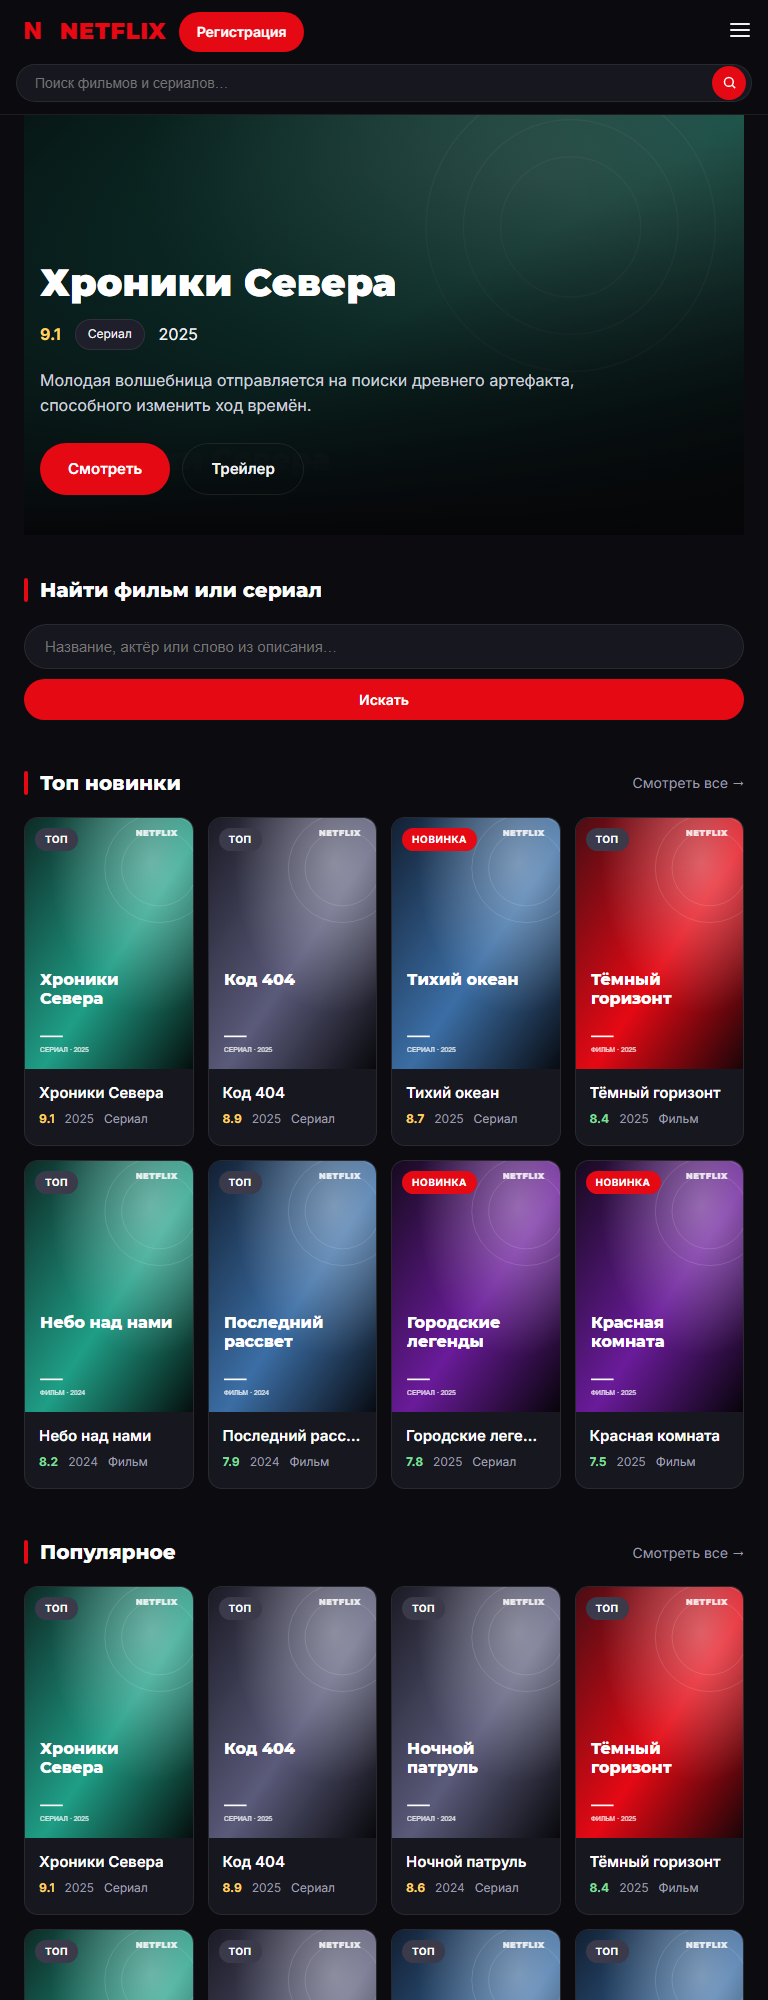
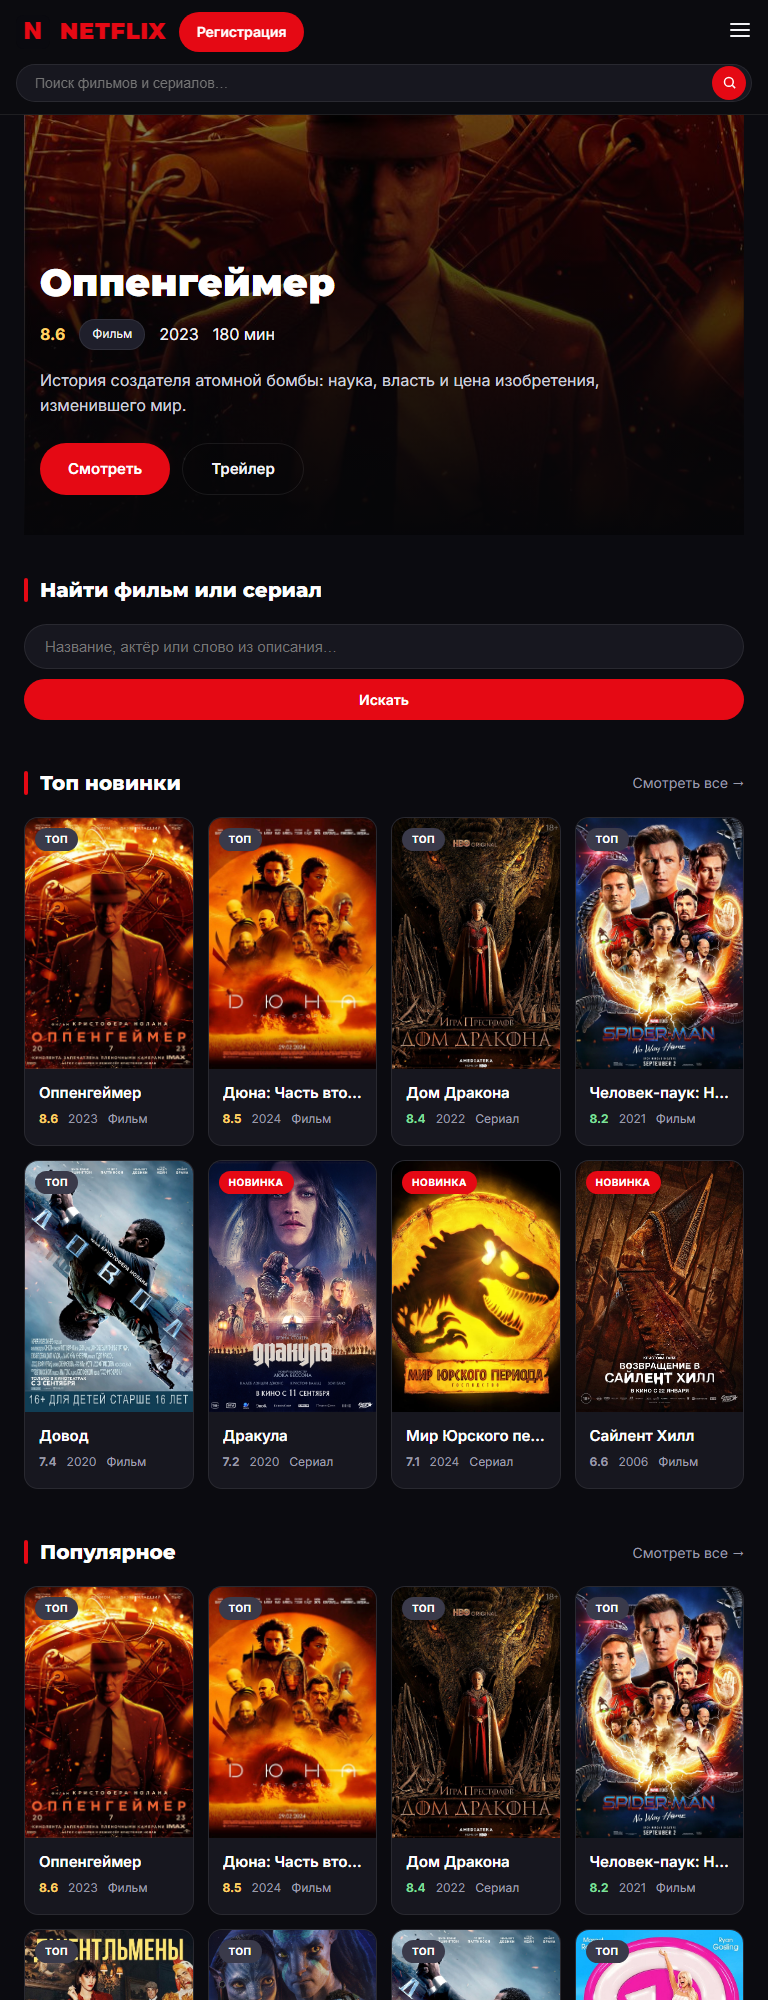
Каталог переведён на реальные постеры: новые названия, описания и сезоны; обновлены макеты и скриншоты

diff --git a/design/mockup.html b/design/mockup.html
@@ -1,4 +1,4 @@
-<!DOCTYPE html>
+<!DOCTYPE html>
 <!--
   design/mockup.html — дизайн-макеты главной и типовых страниц.
 
@@ -190,9 +190,9 @@
 
             <div class="m-hero">
                 <div class="m-hero-in">
-                    <h3>Хроники Севера</h3>
-                    <div class="m-meta"><span class="m-rating">9.1</span><span class="m-chip">Сериал</span><span>2025</span><span>2 сезона</span></div>
-                    <p>Молодая волшебница отправляется на поиски древнего артефакта, способного изменить ход времён.</p>
+                    <h3>Дом Дракона</h3>
+                    <div class="m-meta"><span class="m-rating">8.4</span><span class="m-chip">Сериал</span><span>2022</span><span>2 сезона</span></div>
+                    <p>За двести лет до «Игры престолов» дом Таргариенов борется за трон — и раскалывается изнутри.</p>
                     <div class="m-actions"><span class="m-btn primary">Смотреть</span><span class="m-btn ghost">Трейлер</span></div>
                 </div>
             </div>
@@ -208,24 +208,24 @@
             <div class="m-section">
                 <div class="m-sec-head"><h4>Топ новинки</h4><span>Смотреть все →</span></div>
                 <div class="m-row">
-                    <div class="m-card"><div class="m-poster p1"><span class="mark">Новинка</span></div><div class="m-card-body"><b>Тёмный горизонт</b><span>8.4 · 2025</span></div></div>
-                    <div class="m-card"><div class="m-poster p2"><span class="mark">Новинка</span></div><div class="m-card-body"><b>Небо над нами</b><span>8.2 · 2024</span></div></div>
-                    <div class="m-card"><div class="m-poster p3"><span class="mark">Новинка</span></div><div class="m-card-body"><b>Хроники Севера</b><span>9.1 · 2025</span></div></div>
-                    <div class="m-card"><div class="m-poster p4"><span class="mark">Новинка</span></div><div class="m-card-body"><b>Код 404</b><span>8.9 · 2025</span></div></div>
-                    <div class="m-card"><div class="m-poster p5"><span class="mark">Новинка</span></div><div class="m-card-body"><b>Красная комната</b><span>7.5 · 2025</span></div></div>
-                    <div class="m-card"><div class="m-poster p6"><span class="mark">Новинка</span></div><div class="m-card-body"><b>Тихий океан</b><span>8.7 · 2025</span></div></div>
+                    <div class="m-card"><div class="m-poster p1"><span class="mark">Новинка</span></div><div class="m-card-body"><b>Довод</b><span>8.4 · 2025</span></div></div>
+                    <div class="m-card"><div class="m-poster p2"><span class="mark">Новинка</span></div><div class="m-card-body"><b>Дюна: Часть вторая</b><span>8.2 · 2024</span></div></div>
+                    <div class="m-card"><div class="m-poster p3"><span class="mark">Новинка</span></div><div class="m-card-body"><b>Дом Дракона</b><span>9.1 · 2025</span></div></div>
+                    <div class="m-card"><div class="m-poster p4"><span class="mark">Новинка</span></div><div class="m-card-body"><b>Человек-паук</b><span>8.9 · 2025</span></div></div>
+                    <div class="m-card"><div class="m-poster p5"><span class="mark">Новинка</span></div><div class="m-card-body"><b>Сайлент Хилл</b><span>7.5 · 2025</span></div></div>
+                    <div class="m-card"><div class="m-poster p6"><span class="mark">Новинка</span></div><div class="m-card-body"><b>Аватар: Путь воды</b><span>8.7 · 2025</span></div></div>
                 </div>
             </div>
 
             <div class="m-section">
                 <div class="m-sec-head"><h4>Популярное</h4><span>Смотреть все →</span></div>
                 <div class="m-row">
-                    <div class="m-card"><div class="m-poster p3"></div><div class="m-card-body"><b>Хроники Севера</b><span>9.1 · Сериал</span></div></div>
-                    <div class="m-card"><div class="m-poster p4"></div><div class="m-card-body"><b>Код 404</b><span>8.9 · Сериал</span></div></div>
-                    <div class="m-card"><div class="m-poster p6"></div><div class="m-card-body"><b>Тихий океан</b><span>8.7 · Сериал</span></div></div>
-                    <div class="m-card"><div class="m-poster p2"></div><div class="m-card-body"><b>Ночной патруль</b><span>8.6 · Сериал</span></div></div>
-                    <div class="m-card"><div class="m-poster p1"></div><div class="m-card-body"><b>Тёмный горизонт</b><span>8.4 · Фильм</span></div></div>
-                    <div class="m-card"><div class="m-poster p5"></div><div class="m-card-body"><b>Небо над нами</b><span>8.2 · Фильм</span></div></div>
+                    <div class="m-card"><div class="m-poster p3"></div><div class="m-card-body"><b>Дом Дракона</b><span>9.1 · Сериал</span></div></div>
+                    <div class="m-card"><div class="m-poster p4"></div><div class="m-card-body"><b>Человек-паук</b><span>8.9 · Сериал</span></div></div>
+                    <div class="m-card"><div class="m-poster p6"></div><div class="m-card-body"><b>Аватар: Путь воды</b><span>8.7 · Сериал</span></div></div>
+                    <div class="m-card"><div class="m-poster p2"></div><div class="m-card-body"><b>Мора</b><span>8.6 · Сериал</span></div></div>
+                    <div class="m-card"><div class="m-poster p1"></div><div class="m-card-body"><b>Довод</b><span>8.4 · Фильм</span></div></div>
+                    <div class="m-card"><div class="m-poster p5"></div><div class="m-card-body"><b>Дюна: Часть вторая</b><span>8.2 · Фильм</span></div></div>
                 </div>
             </div>
 
@@ -244,12 +244,12 @@
             <div class="m-section">
                 <div class="m-sec-head"><h4>Рекомендуем вам</h4><span>по вашему избранному и истории</span></div>
                 <div class="m-row">
-                    <div class="m-card"><div class="m-poster p5"></div><div class="m-card-body"><b>Охота на тень</b><span>8.1 · Фильм</span></div></div>
-                    <div class="m-card"><div class="m-poster p2"></div><div class="m-card-body"><b>Городские легенды</b><span>7.8 · Сериал</span></div></div>
-                    <div class="m-card"><div class="m-poster p1"></div><div class="m-card-body"><b>Стальной кулак</b><span>7.7 · Фильм</span></div></div>
-                    <div class="m-card"><div class="m-poster p3"></div><div class="m-card-body"><b>Бар Улыбка</b><span>7.4 · Сериал</span></div></div>
-                    <div class="m-card"><div class="m-poster p6"></div><div class="m-card-body"><b>Последний рассвет</b><span>7.9 · Фильм</span></div></div>
-                    <div class="m-card"><div class="m-poster p4"></div><div class="m-card-body"><b>Аляска</b><span>8.0 · Фильм</span></div></div>
+                    <div class="m-card"><div class="m-poster p5"></div><div class="m-card-body"><b>Оппенгеймер</b><span>8.1 · Фильм</span></div></div>
+                    <div class="m-card"><div class="m-poster p2"></div><div class="m-card-body"><b>Дракула</b><span>7.8 · Сериал</span></div></div>
+                    <div class="m-card"><div class="m-poster p1"></div><div class="m-card-body"><b>Годзилла против Конга</b><span>7.7 · Фильм</span></div></div>
+                    <div class="m-card"><div class="m-poster p3"></div><div class="m-card-body"><b>Барби</b><span>7.4 · Сериал</span></div></div>
+                    <div class="m-card"><div class="m-poster p6"></div><div class="m-card-body"><b>Джентльмены</b><span>7.9 · Фильм</span></div></div>
+                    <div class="m-card"><div class="m-poster p4"></div><div class="m-card-body"><b>Мир Юрского периода</b><span>8.0 · Фильм</span></div></div>
                 </div>
             </div>
 
@@ -276,10 +276,10 @@
             <div class="m-title">
                 <div class="poster"></div>
                 <div>
-                    <div style="font-size:10px;color:#9a9aa8;margin-bottom:8px">Главная / Боевики / Тёмный горизонт</div>
-                    <h3>Тёмный горизонт</h3>
-                    <div class="m-meta"><span class="m-rating">8.4</span><span class="m-chip">Фильм</span><span>2025</span><span>128 мин</span><span class="m-chip">Боевики</span></div>
-                    <p class="desc">Бывший агент вынужден вернуться в игру, чтобы остановить международную сеть наёмников.</p>
+                    <div style="font-size:10px;color:#9a9aa8;margin-bottom:8px">Главная / Боевики / Довод</div>
+                    <h3>Довод</h3>
+                    <div class="m-meta"><span class="m-rating">7.4</span><span class="m-chip">Фильм</span><span>2020</span><span>150 мин</span><span class="m-chip">Триллеры</span></div>
+                    <p class="desc">Оперативник без имени осваивает инверсию времени, чтобы предотвратить войну будущего с настоящим.</p>
                     <div class="m-actions"><span class="m-btn primary">Смотреть трейлер</span><span class="m-btn ghost">В избранное</span><span class="m-btn ghost">Оформить подписку</span></div>
                     <div style="font-size:11px;color:#9a9aa8;margin-top:14px">Режиссёр</div>
                     <div class="m-people">
@@ -294,12 +294,12 @@
             <div class="m-section">
                 <div class="m-sec-head"><h4>Похожие фильмы</h4></div>
                 <div class="m-row">
-                    <div class="m-card"><div class="m-poster p2"></div><div class="m-card-body"><b>Стальной кулак</b><span>7.7</span></div></div>
-                    <div class="m-card"><div class="m-poster p4"></div><div class="m-card-body"><b>Охота на тень</b><span>8.1</span></div></div>
-                    <div class="m-card"><div class="m-poster p6"></div><div class="m-card-body"><b>Аляска</b><span>8.0</span></div></div>
-                    <div class="m-card"><div class="m-poster p5"></div><div class="m-card-body"><b>Небо над нами</b><span>8.2</span></div></div>
-                    <div class="m-card"><div class="m-poster p1"></div><div class="m-card-body"><b>Последний рассвет</b><span>7.9</span></div></div>
-                    <div class="m-card"><div class="m-poster p3"></div><div class="m-card-body"><b>Красная комната</b><span>7.5</span></div></div>
+                    <div class="m-card"><div class="m-poster p2"></div><div class="m-card-body"><b>Годзилла против Конга</b><span>7.7</span></div></div>
+                    <div class="m-card"><div class="m-poster p4"></div><div class="m-card-body"><b>Оппенгеймер</b><span>8.1</span></div></div>
+                    <div class="m-card"><div class="m-poster p6"></div><div class="m-card-body"><b>Мир Юрского периода</b><span>8.0</span></div></div>
+                    <div class="m-card"><div class="m-poster p5"></div><div class="m-card-body"><b>Дюна: Часть вторая</b><span>8.2</span></div></div>
+                    <div class="m-card"><div class="m-poster p1"></div><div class="m-card-body"><b>Джентльмены</b><span>7.9</span></div></div>
+                    <div class="m-card"><div class="m-poster p3"></div><div class="m-card-body"><b>Сайлент Хилл</b><span>7.5</span></div></div>
                 </div>
             </div>
 
@@ -328,10 +328,10 @@
             <div class="m-title">
                 <div class="poster" style="background:linear-gradient(160deg,#5b2a7a,#14141c)"></div>
                 <div>
-                    <div style="font-size:10px;color:#9a9aa8;margin-bottom:8px">Главная / Фэнтези / Хроники Севера</div>
-                    <h3>Хроники Севера</h3>
-                    <div class="m-meta"><span class="m-rating">9.1</span><span class="m-chip">Сериал</span><span>2025</span><span>2 сезона</span></div>
-                    <p class="desc">Молодая волшебница отправляется на поиски древнего артефакта, способного изменить ход времён.</p>
+                    <div style="font-size:10px;color:#9a9aa8;margin-bottom:8px">Главная / Фэнтези / Дом Дракона</div>
+                    <h3>Дом Дракона</h3>
+                    <div class="m-meta"><span class="m-rating">8.4</span><span class="m-chip">Сериал</span><span>2022</span><span>2 сезона</span></div>
+                    <p class="desc">За двести лет до «Игры престолов» дом Таргариенов борется за трон — и раскалывается изнутри.</p>
                     <div class="m-actions"><span class="m-btn primary">Смотреть трейлер</span><span class="m-btn ghost">В избранное</span></div>
                     <div class="m-people">
                         <div><i></i>Иван Петров</div><div><i></i>Анна Смирнова</div><div><i></i>Алексей Новиков</div>
@@ -346,20 +346,20 @@
                 <span class="m-tab">Сезон 2</span>
             </div>
             <div class="m-episodes">
-                <div class="m-ep"><span><b>S1E1</b> · Пророчество</span><span>52 мин</span></div>
-                <div class="m-ep"><span><b>S1E2</b> · Лес тысячи теней</span><span>48 мин</span></div>
-                <div class="m-ep"><span><b>S1E3</b> · Ледяной трон</span><span>50 мин</span></div>
+                <div class="m-ep"><span><b>S1E1</b> · Наследники дракона</span><span>52 мин</span></div>
+                <div class="m-ep"><span><b>S1E2</b> · Принц-изгой</span><span>48 мин</span></div>
+                <div class="m-ep"><span><b>S1E3</b> · Второй по рождению</span><span>50 мин</span></div>
             </div>
 
             <div class="m-section">
                 <div class="m-sec-head"><h4>Похожие сериалы</h4></div>
                 <div class="m-row">
-                    <div class="m-card"><div class="m-poster p6"></div><div class="m-card-body"><b>Тихий океан</b><span>8.7</span></div></div>
-                    <div class="m-card"><div class="m-poster p4"></div><div class="m-card-body"><b>Код 404</b><span>8.9</span></div></div>
-                    <div class="m-card"><div class="m-poster p2"></div><div class="m-card-body"><b>Ночной патруль</b><span>8.6</span></div></div>
-                    <div class="m-card"><div class="m-poster p1"></div><div class="m-card-body"><b>Городские легенды</b><span>7.8</span></div></div>
-                    <div class="m-card"><div class="m-poster p3"></div><div class="m-card-body"><b>Бар Улыбка</b><span>7.4</span></div></div>
-                    <div class="m-card"><div class="m-poster p5"></div><div class="m-card-body"><b>Хроники Севера</b><span>9.1</span></div></div>
+                    <div class="m-card"><div class="m-poster p6"></div><div class="m-card-body"><b>Аватар: Путь воды</b><span>8.7</span></div></div>
+                    <div class="m-card"><div class="m-poster p4"></div><div class="m-card-body"><b>Человек-паук</b><span>8.9</span></div></div>
+                    <div class="m-card"><div class="m-poster p2"></div><div class="m-card-body"><b>Мора</b><span>8.6</span></div></div>
+                    <div class="m-card"><div class="m-poster p1"></div><div class="m-card-body"><b>Дракула</b><span>7.8</span></div></div>
+                    <div class="m-card"><div class="m-poster p3"></div><div class="m-card-body"><b>Барби</b><span>7.4</span></div></div>
+                    <div class="m-card"><div class="m-poster p5"></div><div class="m-card-body"><b>Дом Дракона</b><span>9.1</span></div></div>
                 </div>
             </div>
         </div>
@@ -390,14 +390,14 @@
                 <div>
                     <div class="m-sec-head"><h4>Избранное (2)</h4><span>Управлять →</span></div>
                     <div class="m-row" style="grid-template-columns:repeat(4,1fr)">
-                        <div class="m-card"><div class="m-poster p3"></div><div class="m-card-body"><b>Хроники Севера</b></div></div>
-                        <div class="m-card"><div class="m-poster p4"></div><div class="m-card-body"><b>Код 404</b></div></div>
+                        <div class="m-card"><div class="m-poster p3"></div><div class="m-card-body"><b>Дом Дракона</b></div></div>
+                        <div class="m-card"><div class="m-poster p4"></div><div class="m-card-body"><b>Человек-паук</b></div></div>
                     </div>
 
                     <div class="m-sec-head" style="margin-top:20px"><h4>История просмотров</h4></div>
                     <div class="m-row" style="grid-template-columns:repeat(4,1fr)">
-                        <div class="m-card"><div class="m-poster p1"></div><div class="m-card-body"><b>Тёмный горизонт</b></div></div>
-                        <div class="m-card"><div class="m-poster p5"></div><div class="m-card-body"><b>Небо над нами</b></div></div>
+                        <div class="m-card"><div class="m-poster p1"></div><div class="m-card-body"><b>Довод</b></div></div>
+                        <div class="m-card"><div class="m-poster p5"></div><div class="m-card-body"><b>Дюна: Часть вторая</b></div></div>
                     </div>
 
                     <div class="m-sec-head" style="margin-top:20px"><h4>Платежи</h4></div>
@@ -532,3 +532,4 @@
 </div>
 </body>
 </html>
+

diff --git a/README.md b/README.md
@@ -1,4 +1,4 @@
-# NETFLIX — онлайн-кинотеатр
+# NETFLIX — онлайн-кинотеатр
 
 Учебный проект по **ПМ.01 «Проектирование и разработка информационных систем»**
 (специальность 09.02.07, группа ИСП-311).
@@ -147,7 +147,7 @@ NETFLIX/
 ├── assets/
 │   ├── css/style.css      единственный внешний CSS с комментариями
 │   ├── js/main.js         меню, валидация, AJAX-регистрация, сезоны
-│   └── img/               постеры (SVG), фоны, заглушка аватара, favicon
+│   └── img/               постеры (JPG), SVG-фоны, заглушка аватара, favicon
 ├── config/
 │   ├── config.php         старт сессии + подключение db.php + functions.php
 │   ├── db.php             PDO-подключение и понятная ошибка при сбое
@@ -222,4 +222,5 @@ NETFLIX/
 - Платёжная система не подключена по-настоящему: используется тестовый шлюз
   `gateway.php` (см. комментарии в коде и плашку «Тестовый режим» на странице оплаты).
 - Бренд сайта — NETFLIX, хотя по методичке компания называется Illuminos.
-- Демо-постеры и фоны — сгенерированные SVG-заглушки, а не официальные материалы фильмов.
+- Постеры — локальные файлы `assets/img/posters/*.jpg` (демонстрационные материалы; права принадлежат правообладателям). Фоны — сгенерированные SVG.
+
